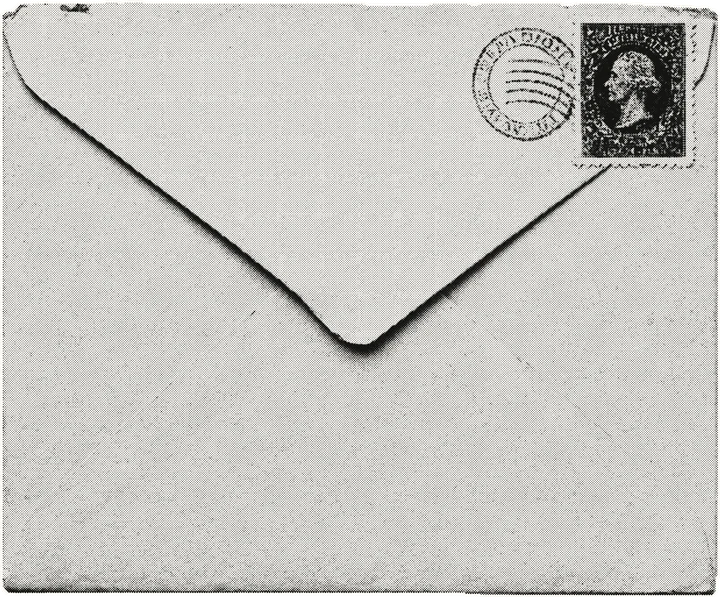
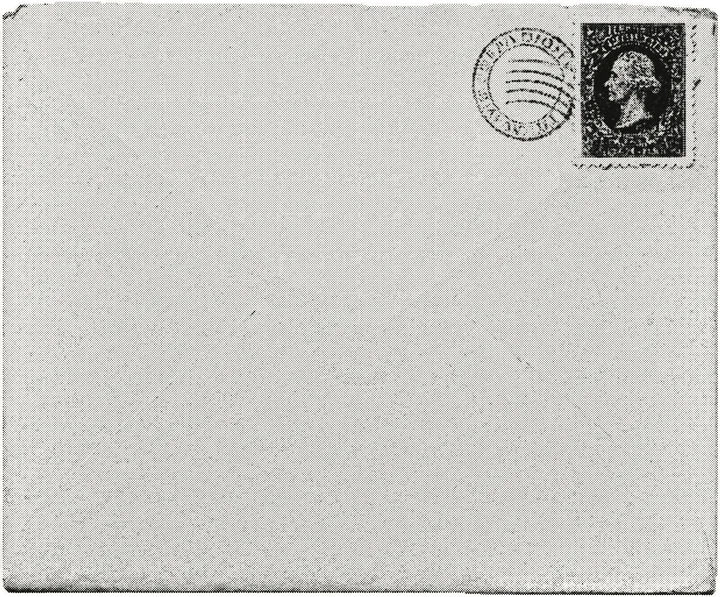
Fundraising example leads with the system and its result; envelope shows its front
Tobias: the point is a system that writes measurably more successful letters, not an analysis a person then checks. The stamp and postmark sat on the flap side, so the flap is painted out.

diff --git a/src-personal/caseStudies.ts b/src-personal/caseStudies.ts
@@ -378,18 +378,18 @@ export const caseStudies: CaseStudy[] = [
   },
   {
     slug: 'spendenbriefe-mit-ki',
-    label: 'Spendenbriefe · Analyse und KI-Werkzeug',
-    title: 'Warum manche Spendenbriefe viel mehr bringen als andere, und wie KI beim nächsten hilft',
-    lead: 'Eine spendenfinanzierte Organisation wollte wissen, warum manche Spendenbriefe viel mehr bringen als andere. Statt einer KI, die Briefe schreibt, entstand ein Werkzeug, das beim Schreiben fragt und prüft.',
-    description: 'Wie eine spendenfinanzierte Organisation ihre Spendenbriefe fair vergleicht, die echten Ausreißer findet und daraus ein KI-Werkzeug macht, das fragt und prüft, statt in einem Zug zu schreiben.',
+    label: 'Spendenbriefe · KI-System',
+    title: 'Ein KI-System, das messbar erfolgreichere Spendenbriefe schreibt',
+    lead: 'Für eine spendenfinanzierte Organisation habe ich ein KI-System gebaut, das messbar erfolgreichere Spendenbriefe schreibt. Der Mensch gibt Input und Richtung vor. Das System bringt mit, was die Auswertung mehrerer Jahre Aussendungen gezeigt hat.',
+    description: 'Wie aus der Auswertung mehrerer Jahre Spendenbriefe ein KI-System wurde, das mit menschlichem Input messbar erfolgreichere Briefe schreibt.',
     object: 'envelope',
     shape: 'circle',
     facts: [
       ['Organisation', 'Spendenfinanzierte gemeinnützige Organisation (anonymisiert)'],
       ['Ausgangslage', 'Spendenbriefe mehrmals im Jahr. Manche brachten weit mehr als andere, und niemand wusste genau, warum.'],
-      ['Was ich gemacht habe', 'Mehrere Jahre Aussendungen ausgewertet, die echten Ausreißer gefunden, die Muster gegen allgemeine Fundraising-Regeln geprüft und daraus ein KI-Werkzeug gebaut, das durch den Brief führt.'],
-      ['Ergebnis', 'Der erste Brief, der mit dem Werkzeug entstand, war ein Erfolg.'],
-      ['Drei Erkenntnisse', 'Erst fair vergleichen, dann urteilen. Nur Muster übernehmen, die auch allgemeinen Regeln standhalten. Die KI fragen und prüfen lassen, statt sie in einem Zug schreiben zu lassen.'],
+      ['Was ich gemacht habe', 'Mehrere Jahre Aussendungen ausgewertet, die echten Ausreißer gefunden, die Muster gegen allgemeine Fundraising-Regeln geprüft und daraus ein KI-System gebaut, das die Briefe mit Input und Richtung vom Menschen schreibt.'],
+      ['Ergebnis', 'Die Briefe aus dem System sind messbar erfolgreicher. Schon der erste war ein Erfolg.'],
+      ['Drei Erkenntnisse', 'Erst fair vergleichen, dann urteilen. Nur Muster übernehmen, die auch allgemeinen Regeln standhalten. Die Erkenntnisse in das System einbauen, das schreibt.'],
     ],
     opening: {
       title: 'Im Haus galt eine Regel: Der Monat entscheidet',
@@ -421,15 +421,15 @@ export const caseStudies: CaseStudy[] = [
         nav: 'Muster',
         paras: [
           'Ich habe die starken und die schwachen Briefe nebeneinandergelegt: Wie beginnen sie? Wie konkret ist die Bitte? Welche Rolle spielt der Nachsatz? Dazu kamen die Stilanalyse und das Schreibhandbuch, das es im Haus schon gab.',
-          'Dann der wichtigste Schritt: Jedes gefundene Muster habe ich gegen allgemein bekannte Regeln für Spendenbriefe geprüft. Vieles deckte sich, etwa dass eine konkrete, greifbare Bitte besser wirkt als eine abstrakte Mission. Ins Werkzeug kam nur, was beides bestanden hat: die eigenen Zahlen und das allgemeine Fachwissen. Die Muster, die nur für diese Organisation gelten, bleiben bei ihr.',
+          'Dann der wichtigste Schritt: Jedes gefundene Muster habe ich gegen allgemein bekannte Regeln für Spendenbriefe geprüft. Vieles deckte sich, etwa dass eine konkrete, greifbare Bitte besser wirkt als eine abstrakte Mission. Ins System kam nur, was beides bestanden hat: die eigenen Zahlen und das allgemeine Fachwissen. Die Muster, die nur für diese Organisation gelten, bleiben bei ihr.',
         ],
       },
       {
-        title: 'Ein Werkzeug, das fragt, bevor es schreibt',
-        nav: 'Werkzeug',
+        title: 'Aus der Auswertung wird ein System, das schreibt',
+        nav: 'System',
         paras: [
-          'Aus Analyse, Regeln und Schreibhandbuch habe ich ein KI-Werkzeug gebaut, auf Basis von Claude, einem KI-Modell wie ChatGPT. Es schreibt den Brief nicht in einem Zug. Es fragt zuerst: Was ist der Anlass? Für wen ist der Brief? Welches konkrete Vorhaben soll er nennen? Dann führt es Schritt für Schritt durch den Aufbau und prüft den Entwurf gegen die Kriterien, bevor es weitergeht.',
-          'Das ist bewusst langsamer als ein Knopf „Brief erstellen“. Der häufigste Fehler von KI-Texten ist ein Entwurf, der gut klingt, aber genau das Konkrete verfehlt, das nur jemand im Haus weiß. Die Fragen holen dieses Wissen ab. Die Prüfungen sorgen dafür, dass die Erkenntnisse aus der Analyse im Brief ankommen. Was verschickt wird, entscheidet weiter ein Mensch.',
+          'Aus Analyse, Regeln und Schreibhandbuch habe ich ein KI-System gebaut, auf Basis von Claude, einem KI-Modell wie ChatGPT. Der Mensch gibt Input und Richtung vor. Das System fragt zuerst: Was ist der Anlass? Für wen ist der Brief? Welches konkrete Vorhaben soll er nennen? Dann schreibt es den Brief Schritt für Schritt und prüft den Entwurf gegen die Kriterien, bevor es weitergeht.',
+          'Das ist bewusst mehr als ein Knopf „Brief erstellen“. Der häufigste Fehler von KI-Texten ist ein Entwurf, der gut klingt, aber genau das Konkrete verfehlt, das nur jemand im Haus weiß. Die Fragen holen dieses Wissen ab. Die Prüfungen sorgen dafür, dass die Erkenntnisse aus der Analyse im Brief ankommen.',
         ],
       },
     ],
@@ -437,19 +437,19 @@ export const caseStudies: CaseStudy[] = [
       { src: '/images/beispiele/spendenbriefe-illustration.svg', alt: 'Illustration mit erfundenen Werten: Punkte je Brief über und unter einer Null-Linie, gruppiert nach Monat A bis F. In jedem Monat liegen einzelne Briefe weit über und weit unter dem Monatsdurchschnitt.', caption: 'So sah das Bild aus, nachdem die Saison herausgerechnet war. Die Werte sind erfunden; die echten Zahlen bleiben bei der Organisation.', width: 1200, height: 700 },
     ],
     result: {
-      title: 'Der erste Brief',
+      title: 'Messbar erfolgreichere Briefe',
       nav: 'Ergebnis',
-      big: 'Ein Erfolg',
-      bigLabel: 'war gleich der erste Spendenbrief, der mit dem Werkzeug entstand.',
+      big: 'Messbar erfolgreicher',
+      bigLabel: 'sind die Spendenbriefe, die mit dem System entstehen. Schon der erste war ein Erfolg.',
       items: [
-        'Die Organisation weiß jetzt, warum ein Brief wirkt, und dieses Wissen wird bei jedem neuen Brief abgefragt, statt in einzelnen Köpfen zu stecken.',
-        'Das Werkzeug fragt, führt und prüft. Der Mensch entscheidet.',
+        'Was einen starken Brief ausmacht, steckt jetzt im System, das den nächsten schreibt, statt in einzelnen Köpfen.',
+        'Der Mensch gibt Input und Richtung vor, das System bringt die Auswertung mit. Die Zahlen bleiben bei der Organisation.',
       ],
     },
     callback: {
       title: 'Zurück zur Regel',
       paras: [
-        'Der Monat zählt weiterhin. Er setzt die Basis, mit der man einen Brief fair beurteilt. Aber ob ein Brief gut wird, entscheidet sich beim Schreiben. Genau dort hilft jetzt das Werkzeug.',
+        'Der Monat zählt weiterhin. Er setzt die Basis, mit der man einen Brief fair beurteilt. Aber ob ein Brief gut wird, entscheidet sich beim Schreiben. Genau dort arbeitet jetzt das System.',
       ],
     },
     takeaways: {
@@ -458,7 +458,7 @@ export const caseStudies: CaseStudy[] = [
       items: [
         ['Vergleichen Sie fair, bevor Sie urteilen.', 'Rechnen Sie Größe und Saison heraus und messen Sie jedes Ergebnis an seinem eigenen Umfeld. Sonst halten Sie den Kalender für eine Erkenntnis.'],
         ['Übernehmen Sie nur Muster, die zwei Prüfungen bestehen.', 'Ihre eigenen Zahlen und das allgemeine Fachwissen. Was nur in einer der beiden Quellen auftaucht, ist oft Zufall.'],
-        ['Lassen Sie die KI fragen und prüfen, nicht in einem Zug schreiben.', 'Das Wissen über den konkreten Anlass liegt bei Ihren Leuten. Ein gutes Werkzeug holt es ab, bevor es formuliert.'],
+        ['Bauen Sie Ihre Erkenntnisse in das System ein, das schreibt.', 'Lassen Sie die KI fragen und prüfen, statt nur auf Knopfdruck zu formulieren. Das Wissen über den konkreten Anlass liegt bei Ihren Leuten. Ein gutes System holt es ab, bevor es schreibt.'],
       ],
       notFitLabel: 'Wann es nicht passt',
       notFit: 'Wenn Sie nur eine Handvoll vergleichbarer Aussendungen haben. Dann sind die Unterschiede zu klein, um echte Muster von Zufall zu trennen. Beginnen Sie dann mit klaren Schreibregeln und sammeln Sie Ergebnisse.',
@@ -472,7 +472,7 @@ export const caseStudies: CaseStudy[] = [
     },
     cta: {
       title: 'Stecken in Ihren alten Zahlen auch Muster?',
-      body: 'In 30 Minuten sprechen wir darüber, welche Ihrer Texte sich auswerten lassen und ob daraus ein Werkzeug für Ihr Team werden kann. Kostenlos und ohne Verpflichtung.',
+      body: 'In 30 Minuten sprechen wir darüber, welche Ihrer Texte sich auswerten lassen und ob daraus ein System für Ihr Team werden kann. Kostenlos und ohne Verpflichtung.',
     },
   },
 ];
@@ -1012,16 +1012,16 @@ export const caseVisuals: Record<string, CaseVisuals> = {
   },
   'spendenbriefe-mit-ki': {
     quote: { text: 'Der Monat setzt die Basis. Der Brief entscheidet.', by: 'Was die Analyse gezeigt hat' },
-    flow: { title: 'Vom Datensatz zum Werkzeug', kind: 'flow', nodes: [
+    flow: { title: 'Vom Datensatz zum System', kind: 'flow', nodes: [
       ['Vergleichbar machen', 'Ertrag pro tausend Briefe', 'neutral'],
       ['Saison herausrechnen', 'jeder Brief gegen seinen Monat', 'neutral'],
       ['Ausreißer finden', 'drei Gruppen statt einer', 'human'],
       ['Muster doppelt prüfen', 'eigene Zahlen und Fachwissen', 'human'],
-      ['Werkzeug fragt und prüft', 'statt in einem Zug zu schreiben', 'ai'],
+      ['System fragt, schreibt, prüft', 'mit Input und Richtung vom Menschen', 'ai'],
     ] },
     compare: { title: 'Vorher und heute', beforeTitle: 'Vorher', afterTitle: 'Heute',
       before: ['Der Monat gilt als Hauptgrund', 'Jeder Brief beginnt beim leeren Blatt', 'Wissen steckt in einzelnen Köpfen'],
-      after: ['Jeder Brief fair gegen seinen Monat bewertet', 'Ein Werkzeug fragt und prüft beim Schreiben', 'Die Erkenntnisse werden bei jedem Brief abgefragt'] },
+      after: ['Jeder Brief fair gegen seinen Monat bewertet', 'Ein System schreibt mit, fragt und prüft', 'Die Erkenntnisse fließen in jeden neuen Brief ein'] },
   },
   'fundraising-letters-with-ai': {
     quote: { text: 'The month sets the baseline. The letter decides.', by: 'What the analysis showed' },

diff --git a/src/data.ts b/src/data.ts
@@ -83,7 +83,7 @@ export const content = {
       ],
       moreTitle: 'Weitere Workflow-Systeme',
       more: [
-        ['Fundraising', 'Vergangene Spendenbriefe analysiert und daraus einen geführten, menschlich kontrollierten Multi-Channel-Workflow gebaut.'],
+        ['Fundraising', 'Vergangene Spendenbriefe ausgewertet und daraus ein KI-System gebaut, das mit menschlichem Input messbar erfolgreichere Briefe schreibt.'],
         ['Zuschauerservice', 'Ein Copilot erstellt Antworten aus dem Servicehandbuch; Prüfung, Bearbeitung und Versand bleiben beim Team.'],
         ['Video-Metadaten', 'Manuelles Logging in strukturierte KI-gestützte Erfassung übersetzt, ohne redaktionelles Urteil zu entfernen.'],
         ['Design-System-API', 'Wiederkehrende Entscheidungen und Plattform-Synchronisation als gemeinsames, maschinenlesbares System organisiert.'],
@@ -209,7 +209,7 @@ export const content = {
       ],
       moreTitle: 'More workflow systems',
       more: [
-        ['Fundraising', 'Analyzed past fundraising letters and turned the findings into a guided, human-controlled multi-channel workflow.'],
+        ['Fundraising', 'Analyzed past fundraising letters and built the findings into an AI system that, with human input, writes measurably more successful letters.'],
         ['Customer support', 'A copilot drafts answers from the service handbook; the team retains review, editing and send decisions.'],
         ['Video metadata', 'Turned manual logging into structured AI-assisted capture without removing editorial judgment.'],
         ['Design system API', 'Organized repeated decisions and cross-platform synchronization as a shared, machine-readable system.'],

diff --git a/src/aiLeadershipData.ts b/src/aiLeadershipData.ts
@@ -97,12 +97,12 @@ export const aiLeadershipContent = {
           link: 'Das ganze Beispiel',
         },
         {
-          context: 'Spendenbriefe · Analyse und KI-Werkzeug',
+          context: 'Spendenbriefe · KI-System',
           role: 'Rolle: Herausfinden, wo KI sich lohnt',
-          title: 'Warum manche Spendenbriefe viel mehr bringen als andere.',
-          body: 'Für eine spendenfinanzierte Organisation habe ich mehrere Jahre Aussendungen ausgewertet, die Ausreißer gefunden und die Muster gegen allgemeine Fundraising-Regeln geprüft. Daraus habe ich ein KI-Werkzeug gebaut, das fragt, führt und prüft. Der Mensch entscheidet.',
-          fact: 'Ein Erfolg',
-          factLabel: 'war gleich der erste Spendenbrief, der mit dem Werkzeug entstand.',
+          title: 'Ein KI-System, das messbar erfolgreichere Spendenbriefe schreibt.',
+          body: 'Für eine spendenfinanzierte Organisation habe ich mehrere Jahre Aussendungen ausgewertet und herausgefunden, was starke Briefe von schwachen unterscheidet. Daraus habe ich ein System gebaut, das Spendenbriefe schreibt. Der Mensch gibt Input und Richtung vor, das System bringt die Auswertung mit.',
+          fact: 'Messbar erfolgreicher',
+          factLabel: 'sind die Briefe aus dem System. Schon der erste war ein Erfolg.',
           href: 'https://treppmann.de/beispiele/spendenbriefe-mit-ki/',
           link: 'Das ganze Beispiel',
         },

diff --git a/brand/CLAIMS.md b/brand/CLAIMS.md
@@ -34,6 +34,7 @@ not in this table does not go into a post, deck, video, print-out or page.** The
 | 26 | More than 11,000 video clips from about 3,500 videos; new videos go through the pipeline automatically | case study, counted Oct 9, 2026 | yes, floor figures | Tobias | yes — refresh when a new count exists |
 | 27 | Color API live in production; Aperto app headed to the App Store in November 2026 | CT §2 Bibel TV (g) | as stated by Tobias | Tobias | yes — change the Aperto line once it is live or if the date moves |
 | 28 | Engineers at HairDirect asked on their own whether to test with users first, after almost a year | CT §2 Bibel TV (g) | his account | Tobias | yes — paraphrase, company unnamed on the site |
+| 29 | AI system for an unnamed donor-funded organization, built from an analysis of past fundraising letters; with human input and guidance it writes measurably more successful letters; the first was a success | CT §2 Bibel TV (b); `data/verification-log/2026-11-04-fundraising-system-measurably-more-successful.md` | yes, as stated by Tobias, no public figure | Tobias | yes: organization unnamed, no years, no amounts, no basis for "measurably" |
 
 ## Never
 
